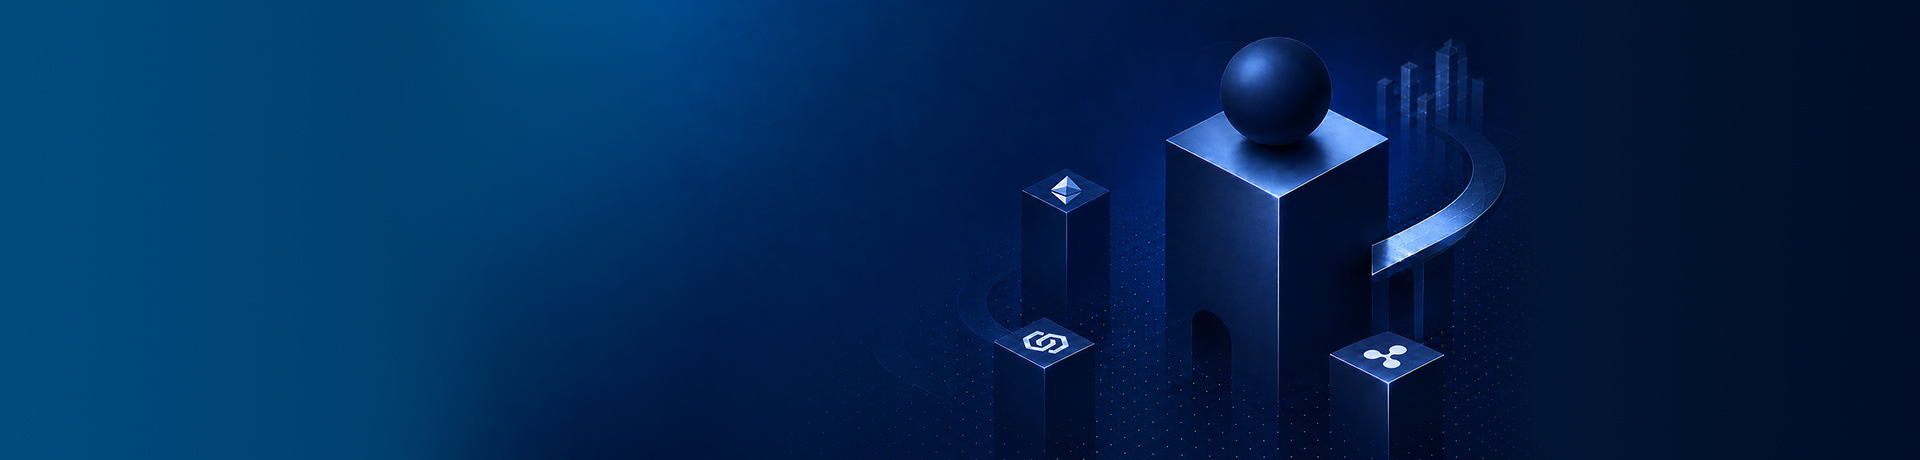
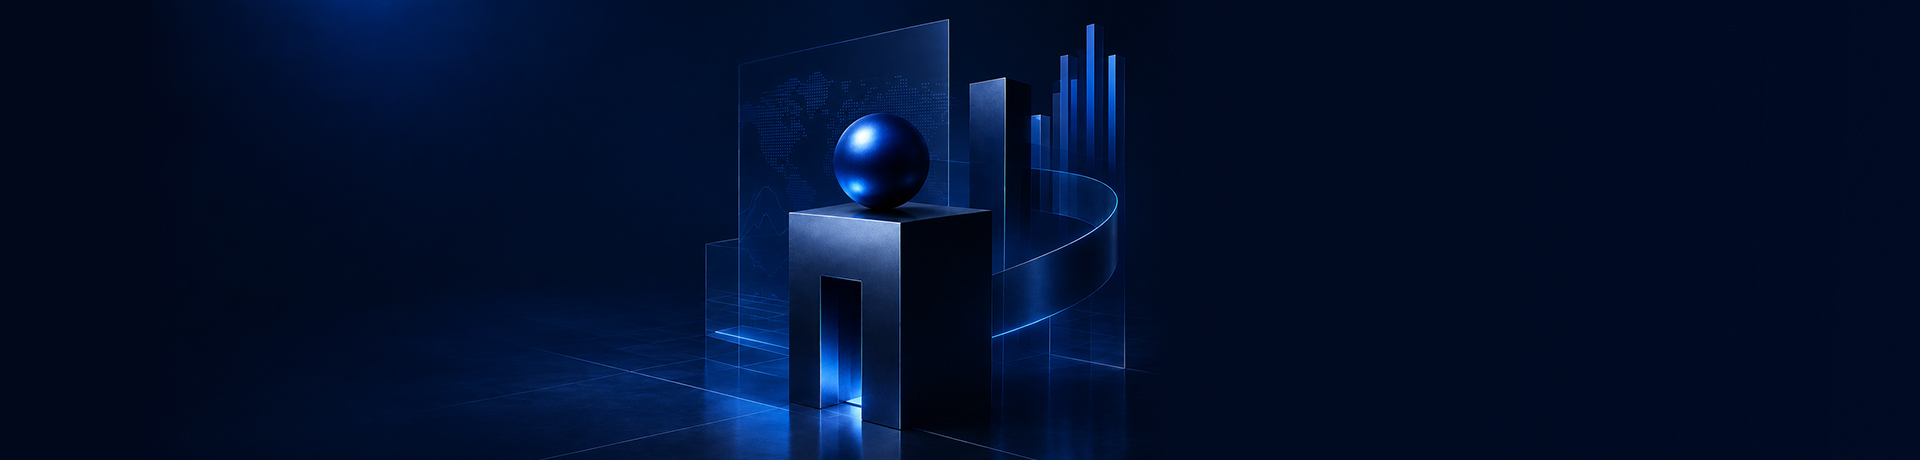
ucbi new footer

diff --git a/components/layouts/Footer.jsx b/components/layouts/Footer.jsx
@@ -8,6 +8,8 @@ import Select from "react-select";
 import send from '../../public/images/arrow.svg';
 import cc from '../../public/images/cc.png';
 import fr from '../../public/images/france.png';
+import ifel from '../../public/images/ifel.png';
+import ifeluk from '../../public/images/ifeluk.png';
 import FooterLogo from '../../public/images/logo.png';
 import sms from '../../public/images/sms.svg';
 import linkedin from '../../public/images/social/linkedin.svg';
@@ -218,24 +220,59 @@ const fullPhone = `${form.phoneCode}${form.phone}`; // or `${form.phoneCode} ${f
               <div className="footer_navs">
                 <ul > 
                   <li><Link   href="mailto:contact@ucbibanking.io">Contact@ucbibanking.io</Link></li> 
-                  <li><Link  href="+33376876876"  >+33 184 160 139 
+                  <li><Link  href="tel:+33376876876"  >+33 184 160 139 
                   <Image style={{width: "12px", height: "13px", marginTop:'-3px', marginLeft: "6px"}} src={fr} alt="france"/> </Link></li> 
-                  <li><Link href="+441632960123"  >+44 203 445 63 88 
+                  <li><Link href="tel:+441632960123"  >+44 203 445 63 88 
                   <Image style={{width:"12px", height: "13px", marginTop:'-3px', marginLeft:'6px'}} src={uk} alt="uk"/></Link></li> 
                   <li><Link href="mailto:contact@ucbibanking.io">Monday to Friday at 9am to 6pm</Link></li> 
                   
                 </ul>
               </div>
-              <div className="cc_web" id="contact">
+              {/* <div className="cc_web" id="contact">
                 <Image  src={cc} alt='ucbibanking.io' />
                      
                     <Link href="#"> 
                        ucbibanking.io
                     </Link>
-              </div>
+              </div> */}
             </div>
           </div>
 
+        </div>
+        <div className="row align-items-center top_footer_line">
+          <div className="col-lg-4 mb-3">
+            <div className="address_areaa">
+              <Image style={{marginTop:'26px'}} className="mt-3"  src={ifeluk} alt='ucbibanking.io' />
+              <div className="addrs">
+                <h6>United Kingdom</h6>
+                <p className="mb-1"><Link href="tel:+441632960123"  >+44 203 445 63 88 
+                  <Image style={{width:"12px", height: "13px", marginTop:'-3px', marginLeft:'6px'}} src={uk} alt="uk"/></Link></p>
+                <p>20 Wenlock Road <br /> London England N1 7GU </p>
+              </div>
+            </div>
+          </div>
+          <div className="col-lg-4 mb-3">
+            <div className="address_areaa">
+              <Image  style={{marginTop:'26px'}}  src={ifel} alt='ucbibanking.io' />
+              <div className="addrs">
+                <h6>France</h6>
+                <p  className="mb-1"><Link  href="tel:+33376876876"  >+33 184 160 139 
+                  <Image style={{width: "12px", height: "13px", marginTop:'-3px', marginLeft: "6px"}} src={fr} alt="france"/> </Link></p>
+               <p>138 Avenue Victor Hugo <br /> 75016 Paris </p>
+
+              </div>
+              
+            </div>
+          </div>
+          <div className="col-lg-4 mb-3">
+            <div className="address_areaa ftxx">
+              <Image  src={cc} alt='ucbibanking.io' />
+                     
+                    <Link href="#"> 
+                       ucbibanking.io
+                    </Link>
+            </div>
+          </div>
         </div>
 
       </div>

diff --git a/app/assets/style.css b/app/assets/style.css
@@ -860,7 +860,7 @@ img {
 .blog_section .cline {
     border-left: 1px solid #dce0e5;
     border-right: 1px solid #dce0e5;
-    padding: 100px 70px 50px;
+    padding: 100px 70px;
     margin-bottom: 110px;
 }
 .blog_content h4 {
@@ -964,13 +964,13 @@ img {
     right: -37px;
 }
 /*scaleable section*/
-.scaleable_section{
-    background: url("../../public/images/scaleable_bg_5.jpg");
-    background-size: cover;
-    background-position: top center;
+.scaleable_section{ 
+    background:#000b21;
 }
 .scaleable_section .cline {  
-    padding: 145px 70px;
+    padding: 100px 70px;
+    background: url("../../public/images/scaleable_bg_5.jpg");
+    background-size: cover;
 }
 /*footer section*/
 .footer_info img {
@@ -1081,7 +1081,7 @@ img {
     z-index: 1;
     border-top: 1px solid #dce0e5;
 }
-.footer_section:before {
+/* .footer_section:before {
     content: "";
     position: absolute;
     right: 0;
@@ -1090,7 +1090,7 @@ img {
     width: 60%;
     background: #f0f1f5;
     z-index: -1;
-}
+} */
 label.form-check-label {
     font-size: 13px;
 }
@@ -2264,4 +2264,69 @@ span.dline {
     height: auto !important; 
 }
 
-    
+
+.scaleable_content span {
+    color: #37cae9;
+    font-size: 10px;
+    text-transform: uppercase;
+    font-weight: 600;
+    letter-spacing: 1px;
+    margin-bottom: 30px;
+    display: inline-block;
+    position: relative;
+    font-family: 'Inter';
+}
+.scaleable_content span:after {
+    content: "";
+    background: #0cc0df;
+    width: 40px;
+    height: 2px;
+    position: absolute;
+    bottom: -12px;
+    left: 0;
+}
+
+.scaleable_content h2 {
+    color: #fff;
+    margin-bottom: 18px;
+    font-family: "Inter";
+    font-size: 17px;
+    font-weight: 700;
+}
+
+.address_areaa {
+    display: flex;
+    gap: 20px;
+    border-right: 1px solid #eeee;
+    margin-right: 30px; 
+}
+
+.address_areaa img {
+    width: 60px;
+    height: 60px;
+}
+
+.addrs h6 {
+    font-size: 14px;
+    color: #112e50;
+    font-family: 'Inter';
+    font-weight: 600;
+    margin-bottom: 12px;
+}
+
+.addrs p {
+    color: #112e50; 
+    margin-bottom: 0px;
+}
+.address_areaa.ftxx img {
+    height: auto;
+    width: auto;
+}
+.ftxx {
+    gap: 9px !important;
+}
+.top_footer_line {
+    border-top: 1px solid #dce0e5;
+    padding-top: 40px;
+    margin-top: 10px;
+}

diff --git a/components/sections/Scaleable.jsx b/components/sections/Scaleable.jsx
@@ -8,7 +8,31 @@ const Scaleable = () => {
     <div className="scaleable_section">
         <div className="container cline">
             <div className="row">
-                <div className="col-lg-5">
+                <div className="col-lg-6 mb-3 ">
+                    <div className="scaleable_content">
+                        <span>Trusted Infrastructure Enduring value</span> 
+                        <h2 >
+                           Secure & scalable digital infrastructure <br /> Built for long-term institutional use
+                        </h2>
+                        <p className="section_paragraph_white"  >
+                          Partner with UCBI and gain exclusive access to innovative investment opportunites strategic insights and long-term value creation
+                        </p>
+
+                        
+
+                        
+                    </div>
+                    <Button data-bs-toggle="modal"   href="#submit-a-request" className="primaryBtn">
+                                                         Get in Touch
+                            <span className="btnIcon">
+                                <ArrowIcon />
+                            </span>
+                        </Button>
+
+                        <div className="divider_lin ggl"  style={{marginBottom:'0px !important'}}></div>
+                    
+                </div>
+                {/* <div className="col-lg-5">
                     <div className="scaleable_content">
                         <h2 >
                             Secure & scalable digital infrastructure <br /> Built for long-term institutional use
@@ -21,7 +45,7 @@ const Scaleable = () => {
                             </span>
                         </Button>
                     </div>
-                </div>
+                </div> */}
             </div>
         </div>
     </div>

diff --git a/components/sections/blogs/BlogTwo.css b/components/sections/blogs/BlogTwo.css
@@ -43,8 +43,7 @@
     font-weight: 700;
     line-height: 1.3;
     margin-bottom: 12px;
-    font-family: "Inter", sans-serif;
-    text-align: justify !important;
+    font-family: "Inter", sans-serif; 
 }
 .desc {
     color: #64748b;
@@ -52,8 +51,7 @@
     margin-bottom: 40px;
     border-bottom: 1px solid #eeeeeecc;
     padding-bottom: 45px;
-    font-family: "Inter", sans-serif;
-    text-align: justify !important;
+    font-family: "Inter", sans-serif; 
 }
 .date {
     display: flex;

diff --git a/app/api/_lib/coingecko.js b/app/api/_lib/coingecko.js
@@ -21,7 +21,7 @@ export async function simplePrice(coinId, vs = "usd") {
 
   try {
     const res = await fetch(url, {
-      next: { revalidate: 30 },
+      next: { revalidate: 120 },
       headers: {
         accept: "application/json",
       },

diff --git a/lib/coindesk/coindesk.js b/lib/coindesk/coindesk.js
@@ -135,7 +135,7 @@ export async function getCoinDeskNews() {
             RSS_URL,
             {
                 next: {
-                    revalidate: 86400,
+                    revalidate: 57600,
                 },
             }
         );

diff --git a/app/api/price/worldcoin/route.js b/app/api/price/worldcoin/route.js
@@ -1,5 +1,5 @@
 import { simplePrice } from "@/app/api/_lib/coingecko";
 
 export async function GET() {
-  return simplePrice("Worldcoin", "usd");
+  return simplePrice("worldcoin-wld", "usd");
 }
